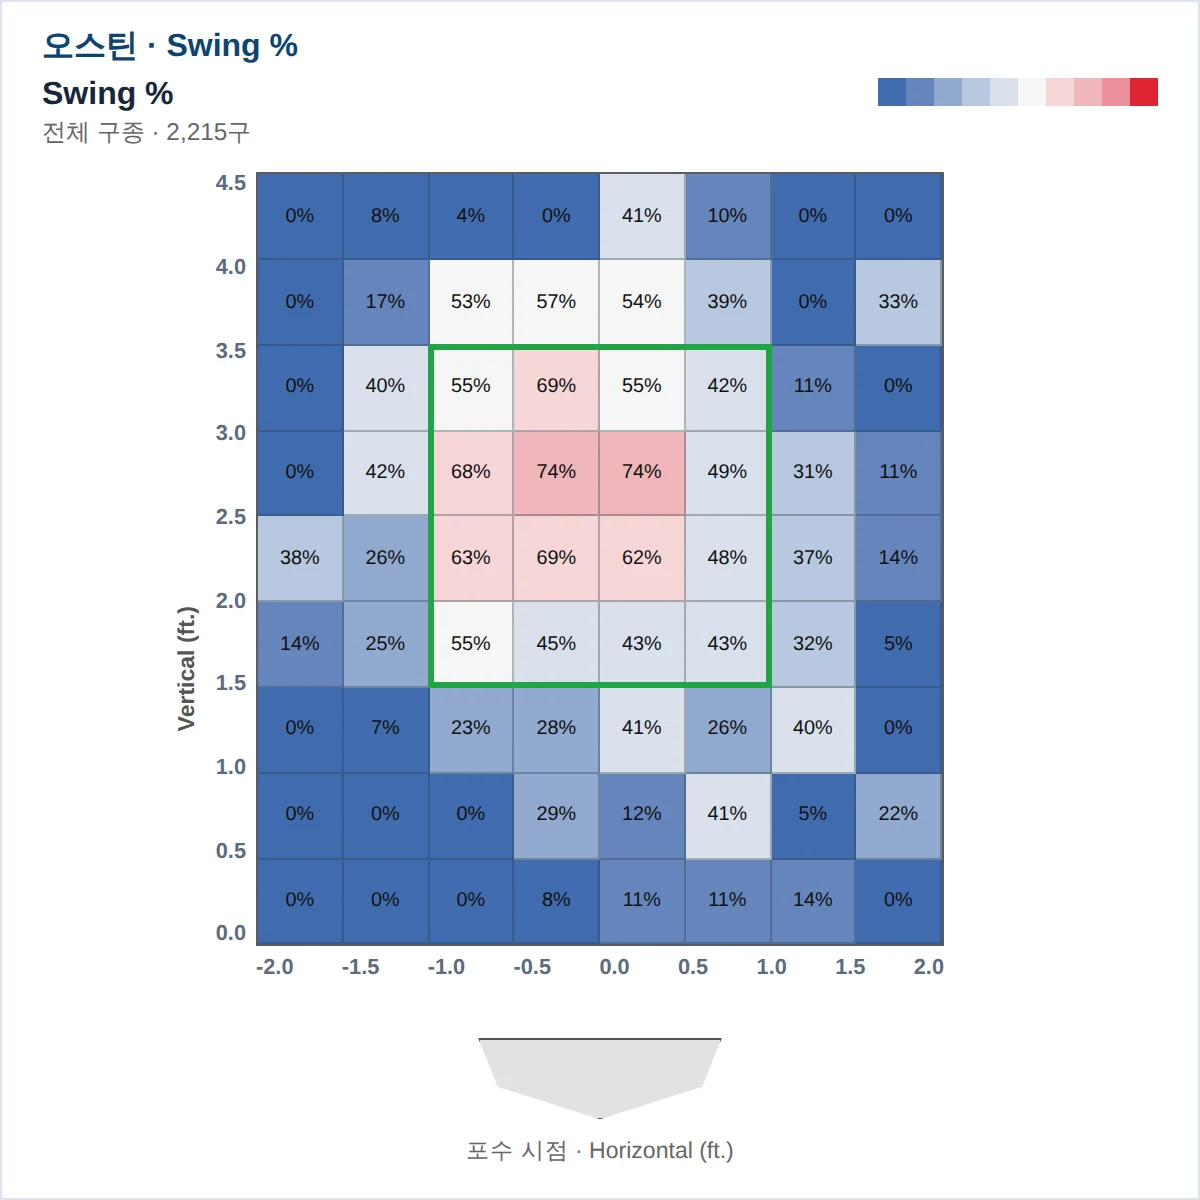
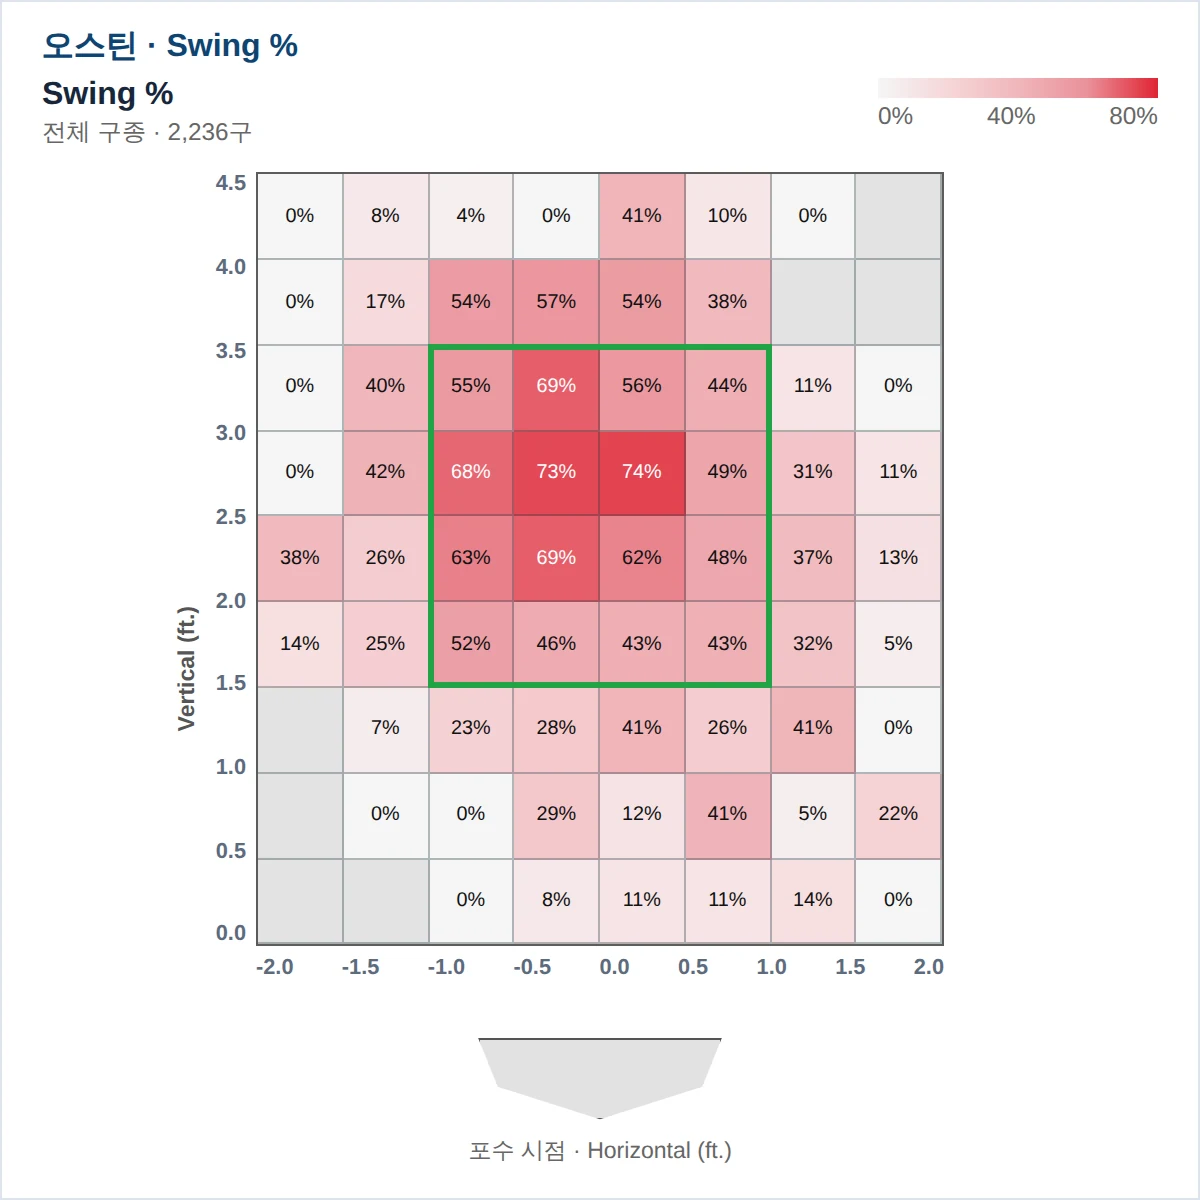
웹: Zone Profile 색·표본·범례·글자 대비 개선
- 비율 지표는 연한 회색→빨강 한 방향 색(상한 = 보이는 칸 최댓값을 10%p 올림), AVG는 .250 중심 양방향 색
- 범례에 하한·중간·상한 숫자, 진한 칸은 흰 글자
- 최소 표본 기본값 0 → 5구, 툴팁에 칸 투구 수
- 홈 썸네일 재생성, 결정 기록 0012

Claude-Session: https://claude.ai/code/session_01WBJQmpkKovLjvDPPyrJFb5

diff --git a/web/zones/zone.js b/web/zones/zone.js
@@ -16,11 +16,26 @@ const metricValue = (config, numerator, denominator) => denominator ? (config.pe
 const metricLabel = (config, value) => value == null ? "—" : config.percent ? `${value.toFixed(1)}%` : value.toFixed(3).replace(/^0/, "");
 
 const savantBands = [[65,108,176],[101,134,190],[145,169,208],[184,200,224],[217,225,237],[245,245,245],[246,214,216],[240,182,187],[234,144,153],[223,36,51]];
-const color = (value, maximum) => {
-  if (value == null) return "#e3e3e3";
-  const ratio = Math.max(0, Math.min(1, value / maximum));
-  return `rgb(${savantBands[Math.min(9, Math.floor(ratio * 10))].join(",")})`;
+// 비율 지표(Swing·Whiff·Contact·In-play %)는 낮음→높음 한 방향 색, AVG는 리그 수준(.250)을 가운데로 둔 양방향 색.
+// 비율 지표의 상한은 보이는 칸의 최댓값을 10%p 단위로 올림해서, 존 밖 0% 칸이 화면을 덮지 않게 합니다.
+const sequentialStops = [[245,245,245],[246,214,216],[240,182,187],[234,144,153],[223,36,51]];
+const AVG_CENTER = 0.25, AVG_SPAN = 0.25;
+const interpolate = (stops, ratio) => {
+  const position = Math.max(0, Math.min(1, ratio)) * (stops.length - 1), index = Math.min(stops.length - 2, Math.floor(position)), t = position - index;
+  return stops[index].map((channel, i) => Math.round(channel + (stops[index + 1][i] - channel) * t));
 };
+const colorScale = (config, values) => {
+  if (!config.percent) {
+    return { rgb: value => savantBands[Math.min(9, Math.max(0, Math.floor((value - (AVG_CENTER - AVG_SPAN)) / (2 * AVG_SPAN) * 10)))],
+      ticks: [AVG_CENTER - AVG_SPAN, AVG_CENTER, AVG_CENTER + AVG_SPAN], stops: savantBands };
+  }
+  const top = Math.max(10, Math.ceil(Math.max(0, ...values) / 10) * 10);
+  return { rgb: value => interpolate(sequentialStops, value / top), ticks: [0, top / 2, top], stops: sequentialStops };
+};
+const rgbText = rgb => `rgb(${rgb.join(",")})`;
+// 배경이 진하면 흰 글자 (상대 휘도 기준).
+const inkFor = rgb => (0.2126 * rgb[0] + 0.7152 * rgb[1] + 0.0722 * rgb[2]) < 140 ? "#fff" : "#111";
+const tickLabel = (config, value) => config.percent ? `${Math.round(value)}%` : value.toFixed(3).replace(/^0/, "");
 
 const columns = () => state.payload?.schema_version >= 2
   ? { pitcherThrows: 2, pitchType: 3, xBin: 4, zBin: 5, values: 6 }
@@ -60,23 +75,29 @@ function render() {
   ].map(([label, value]) => `<div><span>${label}</span><strong>${value}</strong></div>`).join("");
   $("#chart-title").textContent = config.label;
   $("#chart-subtitle").textContent = `${$("#pitch-type").value || "전체 구종"} · ${totals.total.toLocaleString()}구`;
-  $("#legend").innerHTML = Array.from({length: 10}, (_, index) => `<i style="background:${color(index * config.maximum / 10, config.maximum)}"></i>`).join("");
-
   const minimum = Number($("#minimum").value), cells = new Map(), layout = columns();
   rows.forEach(row => {
     const key = `${row[layout.xBin]}-${row[layout.zBin]}`;
     const current = cells.get(key) || [];
     current.push(row); cells.set(key, current);
   });
-  const html = [];
+  const grid = [];
   for (let z = 8; z >= 0; z--) for (let x = 0; x < 8; x++) {
-    const cellRows = cells.get(`${x}-${z}`) || [], cell = aggregate(cellRows);
+    const cell = aggregate(cells.get(`${x}-${z}`) || []);
     const denominator = cell[config.denominator], numerator = cell[config.numerator];
-    const value = denominator >= minimum ? metricValue(config, numerator, denominator) : null;
-    const title = `${config.label}: ${metricLabel(config, value)} (${numerator}/${denominator})`;
-    html.push(`<div class="cell ${value == null ? "empty" : ""}" style="background:${color(value, config.maximum)}" title="${title}">${value == null ? "" : config.percent ? `${Math.round(value)}%` : value.toFixed(3).replace(/^0/, "")}</div>`);
+    // 최소 표본 미만(0구 포함)은 값 없이 회색 칸으로 둡니다. 0구 칸을 0%로 칠하지 않습니다.
+    const value = denominator > 0 && denominator >= minimum ? metricValue(config, numerator, denominator) : null;
+    grid.push({ value, numerator, denominator, pitches: cell.total });
   }
-  $("#zone-grid").innerHTML = html.join("");
+  const scale = colorScale(config, grid.filter(cell => cell.value != null).map(cell => cell.value));
+  $("#legend").innerHTML = `<span class="legend-bar" style="background:linear-gradient(90deg,${scale.stops.map(rgbText).join(",")})"></span>`
+    + `<span class="legend-ticks">${scale.ticks.map(tick => `<em>${tickLabel(config, tick)}</em>`).join("")}</span>`;
+  $("#zone-grid").innerHTML = grid.map(({ value, numerator, denominator, pitches }) => {
+    const title = `${config.label}: ${metricLabel(config, value)} (${numerator}/${denominator}) · 표본 ${pitches}구`;
+    if (value == null) return `<div class="cell empty" title="${title}"></div>`;
+    const rgb = scale.rgb(value);
+    return `<div class="cell" style="background:${rgbText(rgb)};color:${inkFor(rgb)}" title="${title}">${tickLabel(config, value)}</div>`;
+  }).join("");
   const coordinates = state.payload.coordinates;
   const zone = state.payload.strike_zone || { left: -1.0, right: 1.0, bottom: 1.5, top: 3.5 };
   const left = 100 * (zone.left - coordinates.x_min) / (coordinates.x_max - coordinates.x_min);

diff --git a/web/zones/index.html b/web/zones/index.html
@@ -4,7 +4,7 @@
   <meta charset="utf-8">
   <meta name="viewport" content="width=device-width, initial-scale=1">
   <title>KBO Zone Profile</title>
-  <link rel="stylesheet" href="zone.css?v=20261005-3">
+  <link rel="stylesheet" href="zone.css?v=20261006-1">
   <link rel="stylesheet" href="../theme.css?v=20261005-2">
   <script>if (new URLSearchParams(location.search).get("thumb") === "1") document.documentElement.classList.add("thumbnail-mode");</script>
 </head>
@@ -44,7 +44,7 @@
         <label>볼<select id="balls" disabled><option value="">전체</option><option>0</option><option>1</option><option>2</option><option>3</option></select></label>
         <label>스트라이크<select id="strikes" disabled><option value="">전체</option><option>0</option><option>1</option><option>2</option></select></label>
         <label>지표<select id="metric"><option value="swing">Swing %</option><option value="whiff">Whiff %</option><option value="avg">AVG (Hot/Cold)</option><option value="contact">Contact %</option><option value="inplay">In-play %</option></select></label>
-        <label>최소 표본<select id="minimum"><option value="0">0</option><option value="3">3</option><option value="5">5</option><option value="10">10</option></select></label>
+        <label>최소 표본<select id="minimum"><option value="0">0</option><option value="3">3</option><option value="5" selected>5</option><option value="10">10</option></select></label>
       </div>
       <div id="summary" class="summary"></div>
       <div class="dashboard">
@@ -73,6 +73,6 @@
     </section>
     <section class="method-card"><h2>What is this?</h2><p>Swing% = swings / (swings + takes) · Whiff% = whiffs / swings · 0.5 ft × 0.5 ft 셀</p><p>색은 선택 지표의 비율을 나타냅니다. 파란색은 낮고 빨간색은 높습니다. 빈 셀은 선택한 최소 표본에 미달합니다.</p></section>
   </main>
-  <script src="zone.js?v=20261005-1"></script>
+  <script src="zone.js?v=20261006-1"></script>
 </body>
 </html>

diff --git a/web/zones/zone.css b/web/zones/zone.css
@@ -32,8 +32,10 @@ h2 { margin: 0; font-size: clamp(2rem, 4vw, 3.2rem); letter-spacing: -.045em; }
 .chart-heading { display: flex; justify-content: space-between; gap: 12px; align-items: start; margin-bottom: 14px; }
 .chart-heading strong { display: block; font-size: 1rem; }
 .chart-heading span { color: #666; font-size: .76rem; }
-.legend { display: grid; grid-template-columns: repeat(10, 14px); height: 14px; }
-.legend i { display: block; }
+.legend { display: grid; gap: 3px; width: 140px; }
+.legend-bar { display: block; height: 10px; }
+.legend-ticks { display: flex; justify-content: space-between; color: #555; font-size: .68rem; line-height: 1; }
+.legend-ticks em { font-style: normal; }
 .savant-plot { display: grid; grid-template-columns: 16px minmax(0, 480px); justify-content: center; gap: 26px; }
 .vertical-label { align-self: center; color: #555; font-size: .72rem; font-weight: 700; white-space: nowrap; writing-mode: vertical-rl; transform: rotate(180deg); }
 .plot-column { min-width: 0; }

diff --git a/web/index.html b/web/index.html
@@ -19,7 +19,7 @@
           <div class="visual-card__body"><h3>Leaderboards</h3><p>시즌별 타격·투구·수비 지표 검색과 정렬</p><b>열기 →</b></div>
         </a>
         <a class="visual-card" href="zones/">
-          <div class="visual-art" aria-hidden="true"><img src="assets/thumbnails/zone-profile.webp?v=20261005-2" alt=""></div>
+          <div class="visual-art" aria-hidden="true"><img src="assets/thumbnails/zone-profile.webp?v=20261006-1" alt=""></div>
           <div class="visual-card__body"><h3>Zone Profile</h3><p>타자·투수별 Swing·Whiff·Contact·In-play zone profile</p><b>열기 →</b></div>
         </a>
         <a class="visual-card" href="swing-take/">

diff --git a/docs/decisions/0012-zone-profile-color-scale.md b/docs/decisions/0012-zone-profile-color-scale.md
@@ -1,0 +1,20 @@
+# 0012. Zone Profile 색: 비율은 한 방향 색, AVG는 .250 중심, 기본 최소 표본 5구
+
+- **상태**: 채택 (2026-10)
+
+## 맥락
+Zone Profile은 모든 지표를 0~100%(AVG는 .000~1.000) 고정 범위의 파랑-흰색-빨강으로 칠해, 흰색이 항상 50%(.500)였습니다. 존 밖 0% 칸이 진한 파랑으로 화면 대부분을 덮어 존 안으로 시선이 가지 않았고, AVG는 대부분 파랑이었습니다. 최소 표본 기본값 0이라 1~2구 칸이 0%·100%로 진하게 칠해졌고, 범례에 숫자가 없었으며, 진한 칸의 검은 글자는 대비가 낮았습니다.
+
+## 결정
+- 비율 지표(Swing·Whiff·Contact·In-play %)는 연한 회색 → 빨강의 한 방향 색. 상한은 보이는 칸 최댓값을 10%p 단위로 올림.
+- AVG는 .250을 가운데로 둔 양방향 색(.000~.500).
+- 범례에 하한·중간·상한 숫자 표시. 배경이 진하면 흰 글자.
+- 최소 표본 기본값 5구. 툴팁에 칸의 투구 수 표시. 0구·표본 미달 칸은 회색 빈칸.
+
+## 기각한 대안
+- 리그 평균 대비 색: 칸별 리그 집계가 데이터에 없어 `zone_profile.py` 변경이 필요합니다. 별도 작업으로 남깁니다.
+- 선수 간 고정 상한(예: 0~80%): 선수끼리 비교는 쉽지만, 스윙이 적은 타자는 대부분 연하게 보여 구분이 줄어듭니다. 범례 숫자로 상한을 보여 주는 쪽을 택했습니다.
+
+## 결과
+- 같은 색이라도 선수마다 상한이 다를 수 있으므로 범례 숫자를 함께 읽습니다.
+- 표본 미달 칸이 늘어 보일 수 있습니다(필요하면 최소 표본을 0으로 바꿈).

diff --git a/docs/decisions/README.md b/docs/decisions/README.md
@@ -24,6 +24,7 @@
 | [0009](0009-web-contract-non-blocking.md) | 웹 규격 검사는 배포를 막지 않는 별도 체크 | 하네스 |
 | [0010](0010-frozen-files.md) | 얼린 파일과 그 이유 | 하네스 |
 | [0011](0011-harness-structure.md) | 하네스를 4개 구성요소로 나누고 AGENTS.md는 지도로 유지 | 하네스 |
+| [0012](0012-zone-profile-color-scale.md) | Zone Profile 색: 비율은 한 방향 색, AVG는 .250 중심, 기본 최소 표본 5구 | 웹 |
 | [0012](0012-shared-player-search.md) | 선수 검색은 Swing/Take 형태, 안내문구는 Blocking 카드로 통일 (`theme.css` 공통 클래스) | 웹 |
 | [0013](0013-estimated-arm-angle-v3.md) | 고슬롯 가중 eAA-v3와 별도 비대칭 모델 참고 범위 | 지표·웹 |
 
